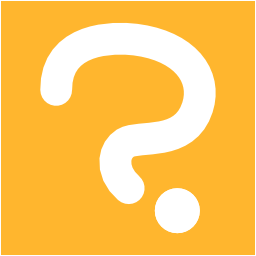
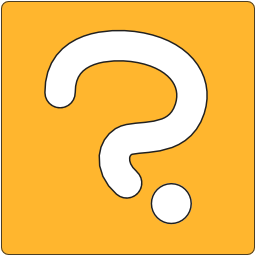
Overhauling portfolio selection, and adding GRID Legends/VR game bullet points.

Changed region(s): [[0.1562, 0.0625, 0.8438, 0.9375], [0.0, 0.0, 1.0, 1.0]]

diff --git a/_layouts/portfolio.html b/_layouts/portfolio.html
@@ -21,18 +21,18 @@ layout: default
   <div class="columns is-centered is-multiline is-mobile" style="display:flex; justify-content:center;" id="project">
     <div
       class="column has-text-centered is-paddingless is-marginless is-one-third-widescreen is-one-third-desktop is-one-fifth-fullhd is-one-third-tablet is-two-fifths-mobile is-three-quarters-touch"
-      style="background-image:url(/assets/img/projects/2025-01-14-bad-bohemians-thumbnail-wide.png);"
+      style="background-image:url(/assets/img/projects/2026-10-08-kennedyesque-thumbnail-wide.png);"
       id="project-card-wide"
     >
-      <a href="/bad-bohemians">
+      <a href="/kennedyesque">
         <div class="card" style="background:rgba(51, 195, 240, 0.9);aspect-ratio:3;"> <!-- #33c3f0 -->
           <figure class="image is-3by1"></figure>
           <div
             class="card-content"
             style="width:80%;max-height:90%;position:absolute;left:50%;top:50%;-ms-transform:translate(-50%,-50%);transform:translate(-50%,-50%);"
           >
-            <h1 class="project-title handwritten has-text-white is-size-4">Bad Bohemians</h1>
-            <p class="project-title has-text-white has-text-weight-light content">Police. Procedural.</p>
+            <h1 class="project-title handwritten has-text-white is-size-4">Kennedyesque</h1>
+            <p class="project-title has-text-white has-text-weight-light content">Solo Project</p>
           </div>
         </div>
       </a>
@@ -48,14 +48,14 @@ layout: default
       id="project-card"
     >
       <a href="/grid-legends">
-        <div class="card" style="background:rgba(85, 214, 194, 0.9)"> <!-- #55d6c2" -->
+        <div class="card" style="background:rgba(245, 137, 213, 0.9)"> <!-- #f589d5; -->
           <figure class="image is-3by1"></figure>
           <div
             class="card-content"
             style="width:80%;max-height:90%;position:absolute;left:50%;top:50%;-ms-transform:translate(-50%,-50%);transform:translate(-50%,-50%);"
           >
             <h1 class="project-title has-text-white is-size-4"><strong>GRID Legends</strong></h1>
-            <p class="project-title has-text-white has-text-weight-light content">A state-of-the-art mobile port</p>
+            <p class="project-title has-text-white has-text-weight-light content">Feral Interactive</p>
           </div>
         </div>
       </a>
@@ -63,20 +63,18 @@ layout: default
 
     <div
       class="column has-text-centered is-paddingless is-marginless is-one-third-widescreen is-one-third-desktop is-one-fifth-fullhd is-one-third-tablet is-two-fifths-mobile is-three-quarters-touch"
-      style="background-image:url(/assets/img/projects/2025-01-12-concrete-earth-thumbnail.png);background-size:contain;background-color:#000000"
+      style="background-image:url(/assets/img/projects/2025-01-14-bad-bohemians-thumbnail.png);"
       id="project-card"
     >
-      <a href="/concrete-earth">
+      <a href="/bad-bohemians">
         <div class="card" style="background:rgba(255, 182, 46, 0.9)"> <!-- #ffb62e -->
           <figure class="image is-3by1"></figure>
           <div
             class="card-content"
-            style="width:60%;max-height:90%;position:absolute;left:50%;top:50%;-ms-transform:translate(-50%,-50%);transform:translate(-50%,-50%);"
+            style="width:90%;max-height:90%;position:absolute;left:50%;top:50%;-ms-transform:translate(-50%,-50%);transform:translate(-50%,-50%);"
           >
-            <h1 class="project-title has-text-white is-size-4"><strong>Concrete Earth</strong></h1>
-            <p class="project-title has-text-white has-text-weight-light content">
-              A procgen showcase in a post-nuclear setting
-            </p>
+            <h1 class="project-title has-text-white is-size-4"><strong>Bad Bohemians</strong></h1>
+            <p class="project-title has-text-white has-text-weight-light content">Solo project</p>
           </div>
         </div>
       </a>
@@ -95,7 +93,7 @@ layout: default
             style="width:80%;max-height:90%;max-height:90%;position:absolute;left:50%;top:50%;-ms-transform:translate(-50%,-50%);transform:translate(-50%,-50%);"
           >
             <h1 class="project-title handwritten has-text-white is-size-4">Exposure</h1>
-            <p class="project-title has-text-white has-text-weight-light content">A nasty little horror demo</p>
+            <p class="project-title has-text-white has-text-weight-light content">Master's Project</p>
           </div>
         </div>
       </a>
@@ -105,40 +103,22 @@ layout: default
   <p style="height:0.125rem;"><!-- Include linebreak to hide overflow without cropping border --></p>
 
   <div class="columns is-centered is-multiline is-mobile" style="display:flex; justify-content:center;" id="project">
+
     <div
       class="column has-text-centered is-paddingless is-marginless is-one-third-widescreen is-one-third-desktop is-one-fifth-fullhd is-one-third-tablet is-two-fifths-mobile is-three-quarters-touch"
-      style="background-image:url(/assets/img/projects/2023-09-18-lingua-franca-thumbnail.png);"
+      style="background-image:url(/assets/img/projects/2025-01-12-concrete-earth-thumbnail.png);background-size:contain;background-color:#000000"
       id="project-card"
     >
-      <a href="/lingua-franca">
+      <a href="/concrete-earth">
         <div class="card" style="background:rgba(255, 182, 46, 0.9)"> <!-- #ffb62e -->
           <figure class="image is-3by1"></figure>
           <div
             class="card-content"
-            style="width:90%;max-height:90%;position:absolute;left:50%;top:50%;-ms-transform:translate(-50%,-50%);transform:translate(-50%,-50%);"
+            style="width:60%;max-height:90%;position:absolute;left:50%;top:50%;-ms-transform:translate(-50%,-50%);transform:translate(-50%,-50%);"
           >
-            <h1 class="project-title handwritten has-text-white is-size-4">Lingua Franca</h1>
-            <p class="project-title has-text-white has-text-weight-light content">Messing about with organic grids</p>
-          </div>
-        </div>
-      </a>
-    </div>
-
-    <div
-      class="column has-text-centered is-paddingless is-marginless is-one-third-widescreen is-one-third-desktop is-one-fifth-fullhd is-one-third-tablet is-two-fifths-mobile is-three-quarters-touch"
-      style="background-image:url(/assets/img/projects/2023-08-30-focalised-story-sifting-thumbnail.png);"
-      id="project-card"
-    >
-      <a href="/focalised-story-sifting">
-	    <div class="card" style="background:rgba(245, 137, 213, 0.9)"> <!-- #f589d5; -->
-          <figure class="image is-3by1"></figure>
-          <div
-            class="card-content"
-            style="width:80%;max-height:90%;position:absolute;left:50%;top:50%;-ms-transform:translate(-50%,-50%);transform:translate(-50%,-50%);"
-          >
-            <h1 class="project-title has-text-white is-size-4"><strong>Focalised Story Sifting</strong></h1>
+            <h1 class="project-title handwritten is-size-4">Concrete Earth</h1>
             <p class="project-title has-text-white has-text-weight-light content">
-              A dissertation on emergent narrative
+              Master's Project
             </p>
           </div>
         </div>
@@ -151,18 +131,20 @@ layout: default
       id="project-card"
     >
       <a href="/get-rich-or-die-trying">
-        <div class="card" style="background:rgba(51, 195, 240, 0.9)"> <!-- #33c3f0 -->
+	    <div class="card" style="background:rgba(51, 195, 240, 0.9)"> <!-- #33c3f0 -->
           <figure class="image is-3by1"></figure>
           <div
             class="card-content"
             style="width:80%;max-height:90%;position:absolute;left:50%;top:50%;-ms-transform:translate(-50%,-50%);transform:translate(-50%,-50%);"
           >
             <h1 class="project-title has-text-white is-size-4"><strong>Get Rich or Die Trying</strong></h1>
-            <p class="project-title has-text-white has-text-weight-light content">The first real game I ever made</p>
+            <p class="project-title has-text-white has-text-weight-light content">GMTK Game Jam 2022</p>
           </div>
         </div>
       </a>
     </div>
+
+	<div style="width:33%;max-width:33%;height:100%;max-height:100%"></div>
 
 	<!-- <div style="width:33%;max-width:33%;height:100%;max-height:100%"></div> -->
   </div>

diff --git a/concrete-earth.html b/concrete-earth.html
@@ -231,35 +231,6 @@ description: Solo Project
     connotations of different words).
   </p>
 
-  <!-- FIXME: Move this to Lingua Franca (once it exists...) -->
-  <h2>Ants?</h2>
-  <p>
-    The finished product is, at the end of the day, just a technical showcase: I'd argue it's been much more fun to
-    build than it is to actually play. That's why, while I've no intentions of develop <i>Concrete Earth</i> any
-    further, I've continued to play about with the underlying DX11 framework, honing my skills as a graphics programmer.
-  </p>
-  <!-- FIXME: Get an ants gif! -->
-  <p>
-    Being interested in navigational AI, I figured it'd be a good challenge to implement Sebastian Lague's model of
-    <strong
-      ><a href="https://www.youtube.com/watch?v=X-iSQQgOd1A" target="_blank" rel="noreferrer noopener"
-        >pheromone-based pathfinding</a
-      ></strong
-    >
-    for myself. To efficiently simulate a million ants, I'd of course need a compute shader - and therefore, I'd
-    need to learn how to actually set one up in DirectX. Initialising the buffers correctly, learning where to use SRVs
-    versus UAVs, even optimising the shader itself, required a lot of reading, and just as much trial and error (for
-    context, Lague's version is made in Unity, so I couldn't port it without fully understanding my own render
-    pipeline). That my
-    <strong
-      ><a href="https://github.com/CommitToTheBit/MMMM-June-2023" target="_blank" rel="noreferrer noopener"
-        >code</a
-      ></strong
-    >
-    is now working as intended speaks not just to perseverance, but a passion for graphics programming, and C++ in
-    general.
-  </p>
-
   <!-- FIXME: Add link to PDF -->
   <h2 style="text-align:right">
     <i>Concrete Earth</i> is available on

diff --git a/_layouts/home.html b/_layouts/home.html
@@ -94,16 +94,32 @@ refactor: true
 	<div style="width:33%;max-width:33%">
 		<ul style="width:100%;list-style-type: '▷ ';padding-left: 21px; line-height: 1.5;">
 			<li style="list-style-type: '▶ ';"><b>Proprietary engine, C++</b></li>
-			<li>UX/UI development</li>
-			<li>Replay and Photo Mode</li>
-			<li>Knowledge of Android API</li>
+			<li>Generalist programmer</li>
+			<li>Porting to Android/iOS</i>
+			<li>Knowledgeable about Android API, file system</li>
+		</ul>
+		<p style="display: inline;"><b>Key Contributions</b></p>
+		<ul style="width:100%;list-style-type: '▷ ';padding-left: 21px; line-height: 1.5;">
+			<li>Replay and Photo Modes</li>
+			<li>Options menus and customisation</li>
+		    <li>Touch support, e.g. scrollable lists</li>
 		</ul>
 	</div>
 	
 	<div style="width:33%;max-width:33%">
 		<ul style="width:100%;list-style-type: '▷ ';padding-left: 21px; line-height: 1.5;">
 			<li style="list-style-type: '▶ ';"><b>Proprietary engine, C++</b></li>
-			<li>Embodied interactions</li>
+			<li>UI/UX specialist</li>
+			<li>Porting to VR</i>
+			<li>Experienced with CMake for cross-platform development</li>
+		</ul>
+		<p style="display: inline;"><b>Key Contributions</b></p>
+		<ul style="width:100%;list-style-type: '▷ ';padding-left: 21px; line-height: 1.5;">
+            <li>Conversion to diegetic interface</li>
+		    <li>Embodied interactions with UI</li>
+			<li>Embodied interactions with player environment</li>
+			<li>FOV limiter (for motion sickness)</li>
+			<li>Compatibility fixes</li>
 		</ul>
 	</div>
 	
